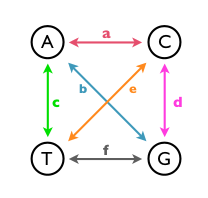
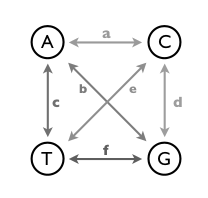
working on plots

diff --git a/chapters/chapter01.tex b/chapters/chapter01.tex
@@ -736,16 +736,14 @@ The elements of $\mathbf{P}$ quantify the finite-time transition probabilities b
 This describes a Continuous-time Markov chain (CTMC), which  we will use to model the substitution process at a single site of an alignment.
 Every CTMC is completely characterized by its rate matrix $\mathbf{Q}$ and the stochastic matrix $\mathbf{P}(t),\ t\geq0$ is obtained via matrix exponentiation as described in the previous subsection (Subsection~\ref{sub:exponentiation}).
 
-
-%PL: Not sure if you want to do a color page print for this figure; it could simply be black/white
-
 %---SUBSTITUTION MODEL---%
 \begin{figure}[H]
 \centering
 \includegraphics[scale=0.5]{substitution} 
 \caption{
 { \footnotesize 
-{\bf  Graphical representation of  a nucleotide substitution model.} A Markov substitution model with 6 parameters describing the symmetric transition rates.
+{\bf  Graphical representation of a nucleotide substitution model.} 
+Markov substitution model with 6 parameters describing the symmetric transition rates.
 } % END: footnotesize
 }
 \label{fig:substitution}
@@ -807,7 +805,6 @@ This condition is assumed for strictly computational reasons, i.e. time-reversib
 Subsection~\ref{sub:exponentiation} - is a strategy frequently employed in phylogenetic software to compute the exponentials of rate matrices.
 Time reversibility also simplifies the computation of the likelihood on a tree, since it makes the computation independent of the position of the root, which we will discuss in Subsection~\ref{sub:likelihood}.
 
-%TODO: JK69 as example
 \subsection{A simple example: the Jukes and Cantor substitution model\label{sub:jc69}}
 
 In this subsection we will discuss the simplest model of nucleotide substitution, i.e. the JC69 model \citep{Jukes1969}.
@@ -855,7 +852,7 @@ If we let $t\rightarrow \infty$ we can see that $\forall i,j\; p_{ij}(t)=1/4$, w
 Second, the rate and time in Equation~(\ref{eq:jc69Finite}) occur as a product, which means that rate and time are confounded.
 If we were to simulate two sequences, using the algorithm listed in (\ref{alg:simulation}) and starting the random number generators form the same seed, they will look the same for every $r$ and $t$ as long as their product $rt$ is the same.
 This is true for most of the substitution models and implies that typical phylogenetic estimation focuses on inferring the product parameter $\theta=rt$, or genetic distance.
-%PL: perhaps mention that the section on molecular clocks (cfr supra) discusses the conditions for which we can start separating time and rate
+In Subsection~\ref{sub:clocks} we discuss how, under certain conditions, the time and substitution rate can be separated.
 
 \subsection{Phylogenetic trees}
 
@@ -867,7 +864,7 @@ Data is observed only at the external nodes (\emph{tips}), while internal nodes 
 The ancestor of all observed samples is called the \emph{root} of the tree and its height is referred to as the time to the most recent common ancestor (TMRCA).
 
 
-%PL: why not use a simpler tree for fewer taxa, not necessarily with dated tips, where you indicate the terms you describe. For example the sample tree for figure 1.9, but without node and branch numbering, and taxon 1, taxon 2,.. as tip labels
+%PL: why not use a simpler tree for fewer taxa, not necessarily with dated tips, where you indicate the terms you describe. For example the sample tree for figure 1.10, but without node and branch numbering, and taxon 1, taxon 2,.. as tip labels
 
 %---TREE CONCEPT---%
 \begin{figure}[H]
@@ -875,8 +872,8 @@ The ancestor of all observed samples is called the \emph{root} of the tree and i
 \includegraphics[scale=0.35]{treeconcept} 
 \caption{
 { \footnotesize 
-{\bf A phylogenetic tree showing evolutionary relationship.} Character sequences are observed at the tips of the tree (black dots); sequence characters at the internal nodes are treated as missing data. 
-Branch lengths are estimated in units of genetic distance, or in this case, real time.
+{\bf A phylogenetic tree showing evolutionary relationship.} Character sequences are observed at the tips of the tree (black dots); sequence characters at the internal nodes are treated as missing data (outlined dots). 
+Branch lengths can be estimated in units of genetic distance, or as in this case, real time.
 } % END: footnotesize
 }
 \label{fig:treeconcept}
